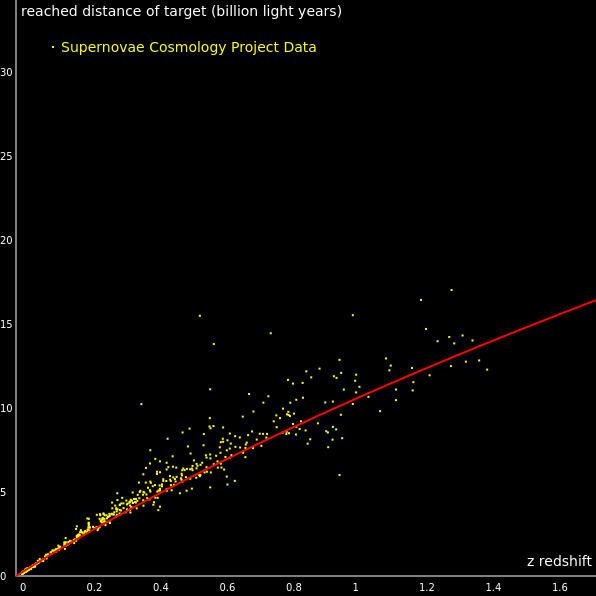
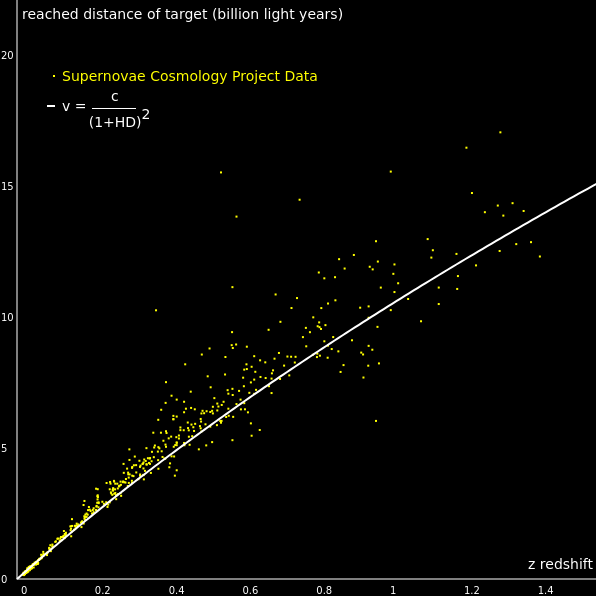
supernovae png

diff --git a/other/supernovae.htm b/other/supernovae.htm
@@ -195,22 +195,23 @@ var black = true
         ctxB.font = "14px sans-serif"
 
         ctxB.fillStyle = "yellow"
-        ctxB.fillRect(offset + 36, offset + 30, 2, 2)
-        ctxB.fillText("Supernovae Cosmology Project Data", offset + 5 + 40, offset + 36)
+        ctxB.fillRect(offset + 36, offset + 56, 2, 2)
+        ctxB.fillText("Supernovae Cosmology Project Data", offset + 5 + 40, offset + 62)
 
         /*
         ctxB.fillStyle = "green"
         ctxB.fillRect(offset + 30, offset + 56, 8, 2)
         ctxB.fillText("Simple Expanding Universe", offset + 5 + 40, offset + 62)
-
-        ctxB.fillStyle = "red"
+        */
+        ctxB.fillStyle = "white"
         ctxB.fillRect(offset + 30, offset + 86, 8, 2)
+        ctxB.fillStyle = "white"
         ctxB.fillText("v =", offset + 5 + 40, offset + 92)
         ctxB.fillText("           c", offset + 5 + 40, offset + 82)
         ctxB.fillRect(offset + 75, offset + 89, 44, 1)
         ctxB.fillText("      (1+HD)", offset + 5 + 40, offset + 108)
         ctxB.fillText("            2", offset + 5 + 66, offset + 100)
-*/
+
         ctxB.fillStyle = !black ? "black" : "white"
         ctxB.textAlign = "right"
         ctxB.fillText(xAxis.value, graph.width - 4, graph.height - 30)
@@ -629,7 +630,7 @@ var black = true
         setupModel({
             div: document.getElementById("redshift2"),
             name: "v<sub>light</sub> = c / (1 + H &times; D)<sup>2</sup>",
-            color: "red", 
+            color: "white", 
             H: 0.04,
             unitH: "Gly<sup>-1</sup>",
             photon: {x: 0, dx: c},
